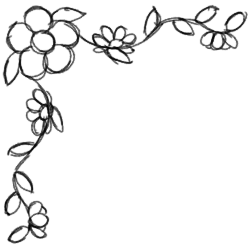
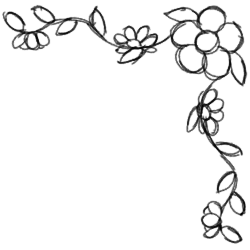
Text -Info

Changed region(s): [[0.0, 0.0, 1.0, 0.98]]

diff --git a/index.html b/index.html
@@ -46,7 +46,8 @@
                                         <b>insert photo of game screen. CS151/Final</b>
                                         
                                         Can create and position various sprites on screen for game purposes
-
+                                        Respository: LINK HERE
+                                        
                                         <br><br><i> Thoughts:</i> This was back in CS151 class when we had a final to make a game. 
                                         I would show more here, but my primary job was appearances. 
                                         I also took up the job as general manager in hopes of keeping the project on track so 
@@ -58,7 +59,7 @@
                                         <b>Photo of code, photo of gameplay. </b> <br>
 
                                         Works well in group projects and excels in C++ language
-
+                                        Respository: LINK HERE
                                         <br><br> <i> Thoughts: </i> I remember having quite a bit of fun with this one, despite general frustrations. 
                                         I also remember working MUCH faster than my partner did, though to no fault of his own. 
                                         I just enjoy making games and got carried away and didn't leave much coding for him. <br> Sorry dude :(
@@ -68,15 +69,15 @@
                                 <div class="box" id="Work1">
                                         <h3> Bash Language </h3>
                                         <br> Excellent in working with files, a necessary skills for any programmer <br>
-
+                                        Repository: LINK HERE
                                         <br><br> <i> Thoughts: </i> Turns out, I'm pretty good at bash! <br> 
                                         I like working with shells in general, though, even if the syntax can get a bit confusing. Fortunately for me, I actually like learning new syntax! Most of the time. <br>
                                 </div>
                                 <div class="box" id="Work2">
                                         <h3>Python and HTML</h3>
                                         <br> Able to parse any information, whether it's code or instructions. An excellent trait to have in teams. <br>
-
-                                        <br> <i> Thoughts: </i> I remember this assignment kind of...super....terrifying me. Turns out, actually, it's not so bad once you break it down. <br> 
+                                        Repository: LINK HERE
+                                        <br><br> <i> Thoughts: </i> I remember this assignment kind of...super....terrifying me. Turns out, actually, it's not so bad once you break it down. <br> 
                                         It's just information at the end of the day and I REALLY like making lists of instructions. <br>
 
                                 </div>

diff --git a/CSS/style.css b/CSS/style.css
@@ -55,9 +55,9 @@ html{
 .card2{
     border-image:url('../images/decor/box\ border\ 1.png') 30 stretch;
     background-image: url('../images/decor/flower\ decal\ 3.png'), url('../images/decor/flower\ decal\ 4.png');
-    background-position-x:left, right;
+    background-position-x:right, left;
     background-position-y: bottom, top;
-    background-size:23%;
+    background-size:30%;
     flex-direction:column;
     display:flex;
     height:96%;
@@ -113,7 +113,7 @@ html{
     background-image:url('../images/decor/flower\ decal\ 1.png'), url('../images/decor/flower\ decal\ 2.png');
     background-size:60%;
     background-position-y:bottom, top;
-    background-position-x: right,left;
+    background-position-x: left,right;
 }
 
 .image-box{
